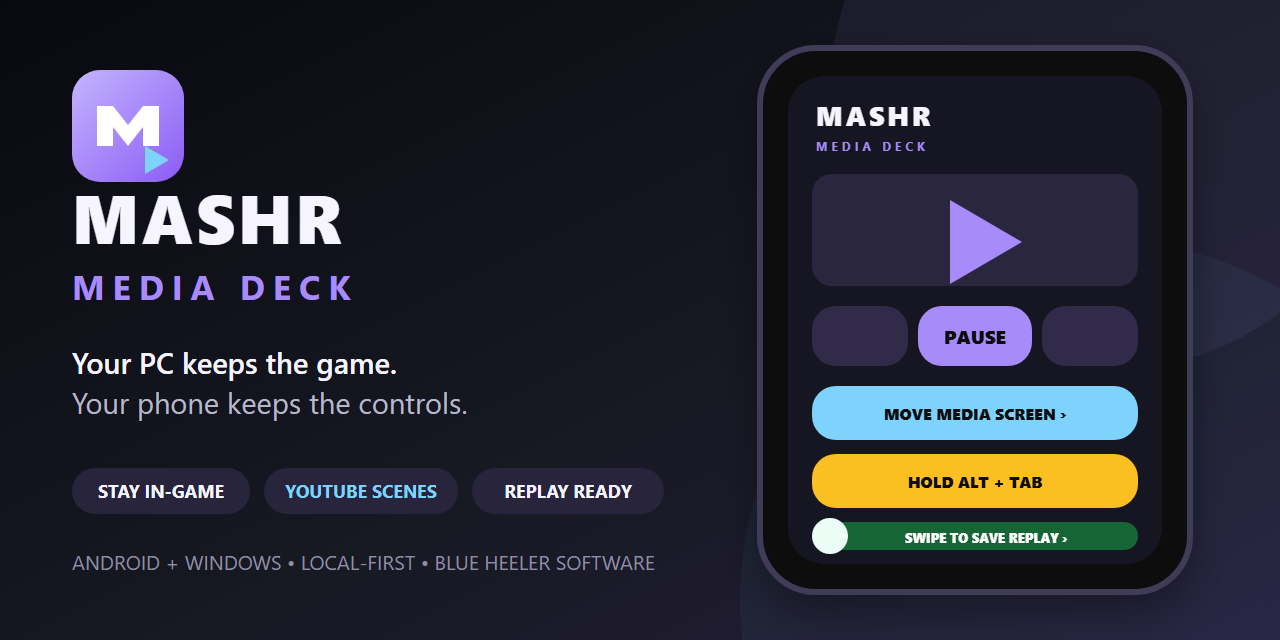
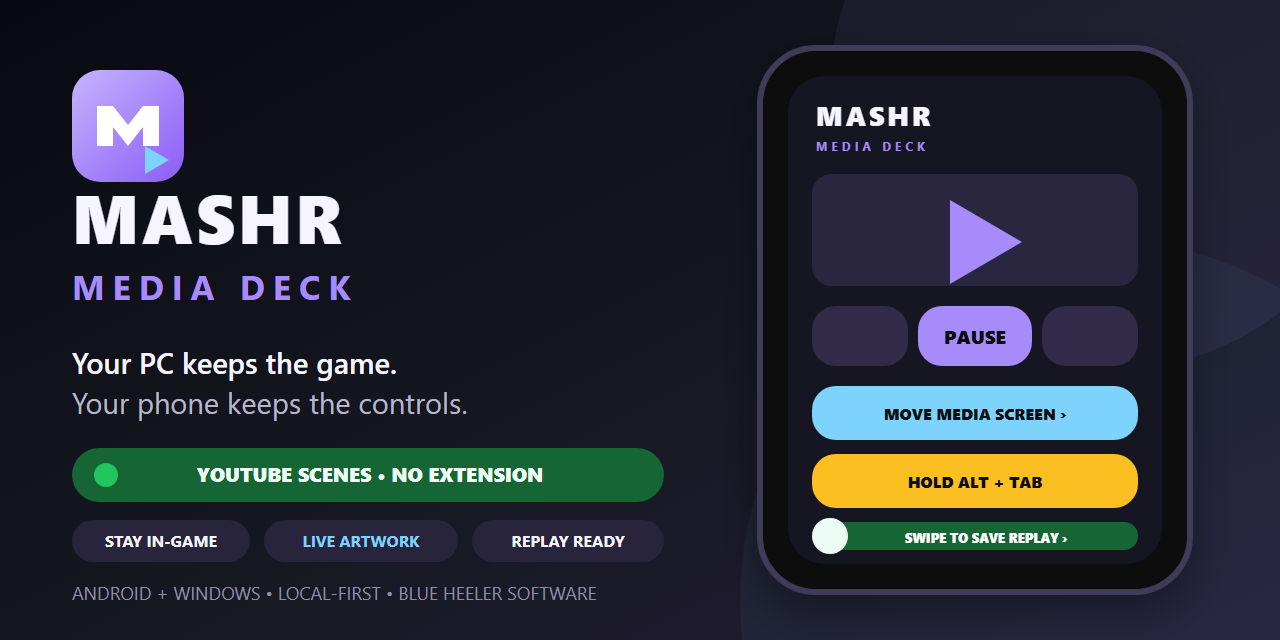
Showcase extension-free core

Changed region(s): [[0.0312, 0.6875, 0.5312, 0.9375]]

diff --git a/README.md b/README.md
@@ -4,14 +4,21 @@
 
 > Your PC keeps the game. Your phone keeps the controls.
 
-[![Android 8+](https://img.shields.io/badge/Android-8%2B-7DD3FC?style=flat-square&logo=android&logoColor=white)](#build-and-run)
-[![Windows 10/11](https://img.shields.io/badge/Windows-10%20%2F%2011-A78BFA?style=flat-square&logo=windows11&logoColor=white)](#build-and-run)
+[![Android 8+](https://img.shields.io/badge/Android-8%2B-7DD3FC?style=flat-square&logo=android&logoColor=white)](#quick-start)
+[![Windows 10/11](https://img.shields.io/badge/Windows-10%20%2F%2011-A78BFA?style=flat-square&logo=windows11&logoColor=white)](#quick-start)
 [![Local only](https://img.shields.io/badge/network-local%20only-22C55E?style=flat-square)](#security-model)
 [![No cloud account](https://img.shields.io/badge/cloud-none-171923?style=flat-square)](#security-model)
+[![No browser extension](https://img.shields.io/badge/browser%20extension-not%20required-22C55E?style=flat-square)](#no-extension-needed)
 
 MASHR Media Deck is a second-screen Android remote built for PC gamers who do not want to Alt+Tab out of a game just to manage music or video. The Pixel shows the selected Windows media session, artwork, live timeline, chapter markers, and large controls while the game keeps focus.
 
-![MASHR Media Deck running on a Pixel 7](docs/images/pixel7-now-playing.png)
+![MASHR Media Deck showing extension-free YouTube scenes on a Pixel 7](docs/images/pixel7-youtube-scenes.png)
+
+## No extension needed
+
+**Everything in the core deck works with the Android app and Windows companion alone.** That includes YouTube artwork and metadata, live progress, chapter markers, the tappable **SCENES** list, transport and volume controls, monitor switching, held Alt+Tab, NVIDIA replay, local pairing, and automatic reconnect.
+
+The browser helper is not required for any control shown above. It exists for one separate, optional extra: the 3×3 related-video grid. Ignore or delete `browser-extension` and the main experience is unchanged.
 
 ## What it does
 
@@ -21,10 +28,53 @@ MASHR Media Deck is a second-screen Android remote built for PC gamers who do no
 - Guarded NVIDIA Instant Replay slider that shows whether the buffer is off, arms it explicitly, and saves with NVIDIA's configured hotkey.
 - Hold-to-use Alt+Tab: keep the yellow control held and use **PREV/NEXT** as window-switcher arrows.
 - Move the selected media window to the next monitor without stealing focus.
-- Optional 3×3 YouTube recommendation grid from a narrowly scoped browser helper.
 - Automatic reconnect through a background Windows tray companion.
+- Optional 3×3 related-video grid from a narrowly scoped helper—the only feature that uses it.
 
 See the [screenshot gallery](docs/SCREENSHOTS.md) and [press kit](docs/PRESS-KIT.md).
+
+## See it in action
+
+Every screen below is a real Pixel 7 capture from the extension-free core.
+
+<table>
+  <tr>
+    <td width="50%" valign="top">
+      <img src="docs/images/pixel7-youtube-scenes.png" alt="YouTube artwork, progress, and ten chapter markers on MASHR Media Deck"><br>
+      <strong>YouTube, already understood.</strong><br>
+      Artwork, title, creator, live time, and creator chapters appear without a browser add-on.
+    </td>
+    <td width="50%" valign="top">
+      <img src="docs/images/pixel7-scene-list.png" alt="Tappable YouTube scene list on MASHR Media Deck"><br>
+      <strong>Tap straight to the good bit.</strong><br>
+      The chapter list highlights the current scene and jumps to any creator timestamp.
+    </td>
+  </tr>
+  <tr>
+    <td width="50%" valign="top">
+      <img src="docs/images/pixel7-alt-tab-held.png" alt="Alt held mode with previous and next window controls"><br>
+      <strong>Alt+Tab without leaving the phone.</strong><br>
+      Hold the red state and use the renamed window arrows with a second finger.
+    </td>
+    <td width="50%" valign="top">
+      <img src="docs/images/pixel7-replay-gesture.png" alt="Guarded NVIDIA Instant Replay swipe in progress"><br>
+      <strong>Hard to trigger by accident.</strong><br>
+      Replay requires a deliberate left-to-right swipe and reports progress before it acts.
+    </td>
+  </tr>
+  <tr>
+    <td width="50%" valign="top">
+      <img src="docs/images/pixel7-now-playing.png" alt="MASHR Media Deck controlling another Windows media session"><br>
+      <strong>Not just YouTube.</strong><br>
+      Compatible Windows media sessions bring their artwork, timeline, and controls with them.
+    </td>
+    <td width="50%" valign="top">
+      <img src="docs/images/pixel7-local-pairing.png" alt="Local one-time pairing screen with no YouTube login"><br>
+      <strong>Pair locally, not with a media account.</strong><br>
+      The one-time code belongs to the PC companion—there is no YouTube or cloud login.
+    </td>
+  </tr>
+</table>
 
 ## Designed for the couch-and-keyboard problem
 
@@ -94,11 +144,20 @@ This keeps the existing Windows private/public network profile unchanged, disabl
 
 The stable executable, Android package, scheduled-task name, discovery token, HMAC headers, and pairing-storage path retain their original `MediaDeck` identifiers so existing installs upgrade without losing pairing or restart behavior.
 
-## YouTube scenes and recommendations
+## YouTube scenes
+
+**No extension is used for this.**
 
 For Brave, Chrome, and Edge, the companion reads the address bar of the unambiguous selected media window through Windows UI Automation. When it is an exact YouTube watch URL, creator-published description timestamps become progress markers. Tap **SCENES** between elapsed and remaining time to jump to a chapter.
 
-The recommendation grid is separate and optional because Windows media sessions do not expose YouTube's related-video cards. To enable only that feature:
+## Optional extra: related-video grid
+
+The 3×3 related-video grid is the one feature that cannot be recovered from Windows media sessions or the public watch page. It is separate from playback, thumbnails, progress, controls, and scenes.
+
+<details>
+<summary>Install the narrowly scoped helper for this extra only</summary>
+
+To enable only the related-video grid:
 
 1. Open `brave://extensions` or `chrome://extensions`.
 2. Enable **Developer mode**.
@@ -106,6 +165,8 @@ The recommendation grid is separate and optional because Windows media sessions 
 4. Reload the YouTube watch page.
 
 The helper requests access only to YouTube watch pages and `127.0.0.1:43821`; it requests no history, cookies, or general browsing access.
+
+</details>
 
 ## NVIDIA Instant Replay
 

diff --git a/docs/PRESS-KIT.md b/docs/PRESS-KIT.md
@@ -12,9 +12,13 @@
 
 > Your PC keeps the game. Your phone keeps the controls.
 
+## Hero claim
+
+> YouTube scenes. Live artwork. Full media controls. Zero browser extensions required.
+
 ## One-line description
 
-MASHR Media Deck turns an Android phone into a secure local media deck for PC gamers who do not want to Alt+Tab.
+MASHR Media Deck turns an Android phone into a secure, extension-free local media deck for PC gamers who do not want to Alt+Tab.
 
 ## Short description
 
@@ -24,13 +28,16 @@ Control PC music and video from a bold, glanceable Android deck while the game k
 
 MASHR Media Deck solves the small but constant interruption of leaving a PC game to manage background media. A lightweight Windows tray companion reads the selected Windows media session and a paired Android phone presents the useful parts as large, unmistakable controls.
 
-The system is local-first: no cloud backend, account, Google login, analytics, or remote-desktop surface. Authenticated commands are allowlisted, replay-resistant, and firewall-scopeable to one paired phone. YouTube creator chapters work without a browser extension; an optional narrowly scoped helper adds only the related-video grid.
+The system is local-first: no cloud backend, account, Google login, analytics, or remote-desktop surface. Authenticated commands are allowlisted, replay-resistant, and firewall-scopeable to one paired phone.
+
+The core deck needs no browser extension. YouTube artwork, metadata, live progress, creator chapter markers, the tappable scene list, media controls, monitor switching, held Alt+Tab, replay, pairing, and reconnect all work with only the Android app and Windows companion. A narrowly scoped helper exists for one optional extra—the related-video grid—and nothing else depends on it.
 
 ## Feature callouts
 
 - Stay in-game while controlling PC music and video.
 - Glanceable artwork, metadata, and live progress.
 - Creator chapter markers and a tappable scene list.
+- No browser extension for the complete core deck.
 - Guarded arm/save flow for NVIDIA Instant Replay.
 - Hold-to-use Alt+Tab window switching.
 - Focus-preserving media-window monitor cycling.
@@ -39,11 +46,41 @@ The system is local-first: no cloud backend, account, Google login, analytics, o
 
 ## Screenshot captions
 
+### Extension-free YouTube deck
+
+![YouTube chapters on the main deck](images/pixel7-youtube-scenes.png)
+
+**Caption:** MASHR finds artwork, live time, and ten creator chapters from the selected YouTube session without a browser extension.
+
+### Scene picker
+
+![Tappable YouTube creator chapters](images/pixel7-scene-list.png)
+
+**Caption:** The current scene is highlighted; every creator timestamp is one tap away.
+
+### Held Alt+Tab
+
+![Alt held with phone window arrows](images/pixel7-alt-tab-held.png)
+
+**Caption:** Hold Alt on the phone while a second touch steps left or right through the Windows switcher.
+
+### Replay gesture
+
+![Guarded replay swipe in progress](images/pixel7-replay-gesture.png)
+
+**Caption:** The high-consequence replay action exposes its activation progress instead of firing on a stray tap.
+
+### Local pairing
+
+![Local phone-to-PC pairing](images/pixel7-local-pairing.png)
+
+**Caption:** The phone pairs directly with the PC companion—no YouTube, Google, or cloud account.
+
 ### Main deck
 
 ![MASHR Media Deck main controls](images/pixel7-now-playing.png)
 
-**Caption:** The complete MASHR Media Deck control surface fits on one Pixel 7 screen without scrolling.
+**Caption:** A second Windows media session shows that the deck is not limited to YouTube.
 
 **Alt text:** Dark Android media remote showing artwork, live progress, large purple transport buttons, blue monitor control, yellow Alt+Tab control, and orange NVIDIA replay slider.
 
@@ -76,15 +113,15 @@ Logo assets:
 
 ### Short post
 
-MASHR Media Deck turns your Android phone into a local PC media remote built for gaming: big controls, YouTube scenes, monitor switching, deliberate Alt+Tab, and guarded NVIDIA Instant Replay—without leaving the game or adding a cloud account.
+MASHR Media Deck turns your Android phone into an extension-free local PC media remote built for gaming: big controls, YouTube scenes, monitor switching, deliberate Alt+Tab, and guarded NVIDIA Instant Replay—without leaving the game or adding a cloud account.
 
 ### Longer post
 
-Meet MASHR Media Deck from Blue Heeler Software: a second-screen Android remote for PC gamers who are tired of Alt+Tabbing just to pause a video, change a track, or save a replay. It pairs directly with a Windows tray companion, keeps controls local and authenticated, shows live artwork and progress, adds YouTube chapter scenes without an extension, moves the media window between monitors, and makes NVIDIA replay state obvious before you swipe.
+Meet MASHR Media Deck from Blue Heeler Software: a second-screen Android remote for PC gamers who are tired of Alt+Tabbing just to pause a video, change a track, or save a replay. It pairs directly with a Windows tray companion, keeps controls local and authenticated, shows live artwork and progress, adds YouTube chapter scenes without an extension, moves the media window between monitors, and makes NVIDIA replay state obvious before you swipe. The optional browser helper adds only a related-video grid; the deck itself does not need it.
 
 ### Repository description
 
-Secure local Android media deck for PC gamers—live artwork, YouTube scenes, monitor switching, Alt+Tab, and NVIDIA replay.
+Extension-free local Android media deck for PC gamers—live artwork, YouTube scenes, monitor switching, Alt+Tab, and NVIDIA replay.
 
 ## Claims guidance
 
@@ -101,4 +138,5 @@ Avoid:
 - claiming formal security certification;
 - claiming support for every Windows media player;
 - describing the optional browser helper as required for chapters;
+- implying that playback, artwork, progress, scenes, or controls require a browser extension;
 - presenting the debug APK as a store-signed production build.

diff --git a/docs/SCREENSHOTS.md b/docs/SCREENSHOTS.md
@@ -1,20 +1,48 @@
 # MASHR Media Deck screenshots
 
-## Complete Pixel 7 deck
+These are real Pixel 7 captures. YouTube artwork, live progress, chapter markers, the scene picker, playback controls, monitor switching, Alt+Tab, replay, and local pairing all work without a browser extension.
 
-![Complete MASHR Media Deck interface](images/pixel7-now-playing.png)
+## Extension-free YouTube deck
 
-The complete portrait control deck is visible at once: metadata, timeline, transport, seek, volume, playback mode, monitor switching, Alt+Tab, and NVIDIA replay.
+![YouTube artwork, progress, and ten chapter markers](images/pixel7-youtube-scenes.png)
 
-## Gamer controls
+The companion identifies the selected YouTube watch page and turns creator timestamps into cyan progress markers. No browser extension, YouTube login, or cloud service is involved.
+
+## Tappable scene list
+
+![YouTube creator chapter scene picker](images/pixel7-scene-list.png)
+
+The current chapter is marked with a play arrow. Every row is a direct seek target.
+
+## Held Alt+Tab mode
+
+![Alt held mode with window arrows](images/pixel7-alt-tab-held.png)
+
+While the red control is held, **PREV/NEXT** become left/right window-switcher arrows and still accept a second touch.
+
+## Guarded replay gesture
+
+![NVIDIA replay gesture showing swipe progress](images/pixel7-replay-gesture.png)
+
+The slider shows progress before crossing its activation threshold, making an accidental replay action much less likely.
+
+## Another Windows media session
+
+![Complete MASHR Media Deck interface with another media session](images/pixel7-now-playing.png)
+
+The same portrait deck handles compatible Windows media sessions with artwork, metadata, a live timeline, and large controls.
+
+## Local pairing, not a media login
+
+![Local MASHR Media Deck pairing screen](images/pixel7-local-pairing.png)
+
+Pairing is between the phone and PC companion. The app does not ask for a YouTube, Google, or cloud account.
+
+## Gamer-control detail
 
 ![MASHR Media Deck gamer controls](images/pixel7-replay-control.png)
 
-The high-consequence controls are visually distinct:
-
-- blue moves the selected media window to the next monitor;
-- yellow holds the Windows Alt+Tab switcher while **PREV/NEXT** act as arrows;
-- amber/green requires a left-to-right replay gesture.
+Blue moves the media window between screens, yellow controls Alt+Tab, and amber/green guards Instant Replay.
 
 ## Social card
 

diff --git a/browser-extension/README.md b/browser-extension/README.md
@@ -1,6 +1,10 @@
 # MASHR Media Deck YouTube Bridge
 
-This optional unpacked Chrome/Brave extension reads only the nine recommendation cards already visible beside the current `youtube.com/watch` video. It sends their video IDs and titles to MASHR Media Deck over loopback (`127.0.0.1`), then polls loopback for a video selected on the phone.
+> **You do not need this for MASHR Media Deck.**
+
+Artwork, metadata, live progress, YouTube chapter markers, the tappable **SCENES** list, playback controls, monitor switching, Alt+Tab, NVIDIA replay, pairing, and reconnect all work without a browser extension.
+
+This optional unpacked Chrome/Brave helper adds one extra feature only: the 3×3 related-video grid. It reads the nine recommendation cards already visible beside the current `youtube.com/watch` video, sends their video IDs and titles to MASHR Media Deck over loopback (`127.0.0.1`), then polls loopback for a video selected on the phone.
 
 It does not request browsing history, cookies, account data, or access to non-YouTube pages. It cannot ask the companion to fetch arbitrary URLs.
 

diff --git a/docs/RELEASE-NOTES-1.4.0.md b/docs/RELEASE-NOTES-1.4.0.md
@@ -2,6 +2,8 @@
 
 The first Blue Heeler Software preview of MASHR Media Deck turns a Pixel-class Android phone into a local, glanceable PC media controller for gaming.
 
+The core experience requires no browser extension. The optional helper adds only the related-video grid.
+
 ## Highlights
 
 - One-screen portrait deck with large, obvious controls.
@@ -11,6 +13,7 @@ The first Blue Heeler Software preview of MASHR Media Deck turns a Pixel-class A
 - Focus-preserving media-window monitor cycling.
 - Hold-to-use Alt+Tab with previous/next window navigation.
 - Signed phone pairing and recommended single-phone LAN restriction.
+- A real-device gallery covering YouTube scenes, Alt+Tab, replay, local pairing, and other Windows media sessions.
 
 ## Install
 

diff --git a/CHANGELOG.md b/CHANGELOG.md
@@ -2,6 +2,14 @@
 
 All notable MASHR Media Deck changes are recorded here.
 
+## Unreleased
+
+### Documentation
+
+- Added a six-screen real Pixel 7 product tour covering extension-free YouTube scenes, chapter jumping, Alt+Tab, guarded replay, local pairing, and another Windows media session.
+- Made the extension boundary explicit: the complete core deck is extension-free; only the optional related-video grid uses the helper.
+- Updated press copy and social artwork around the extension-free core experience.
+
 ## 1.4.0 — 2026-07-17
 
 ### Added
